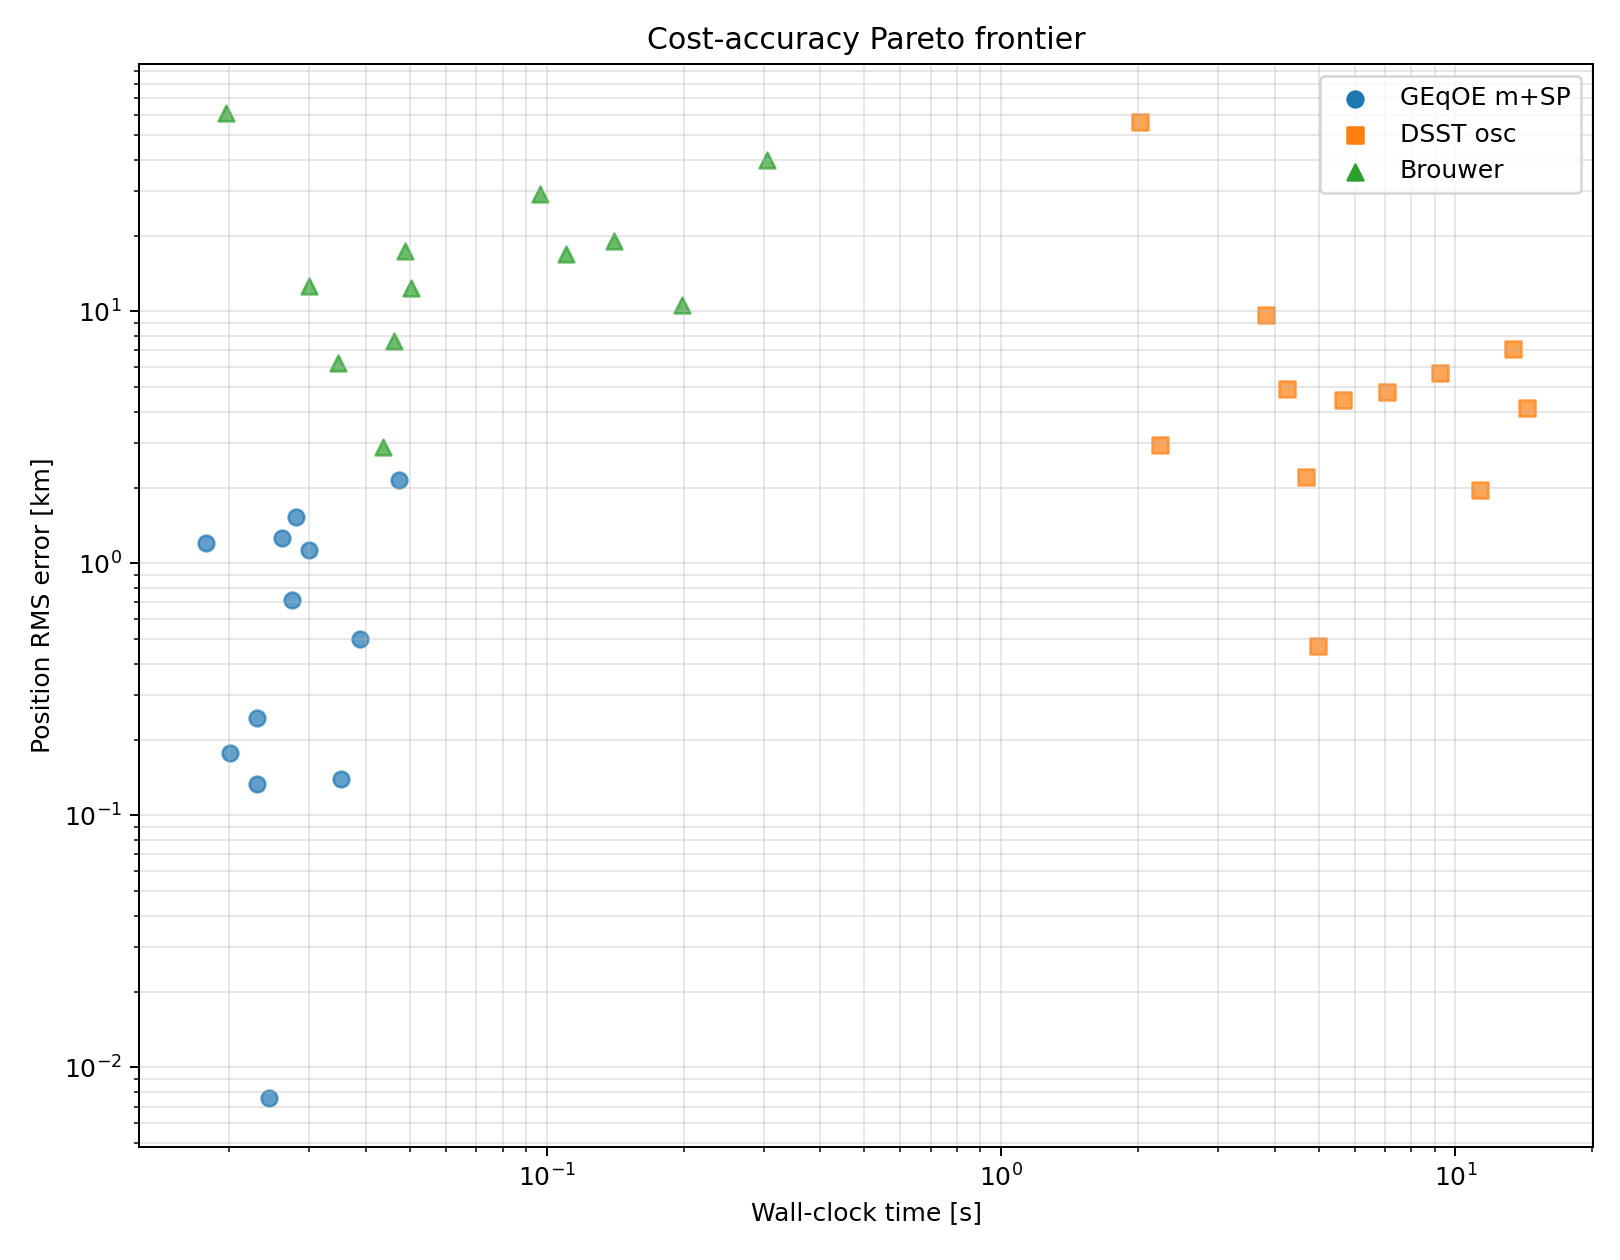
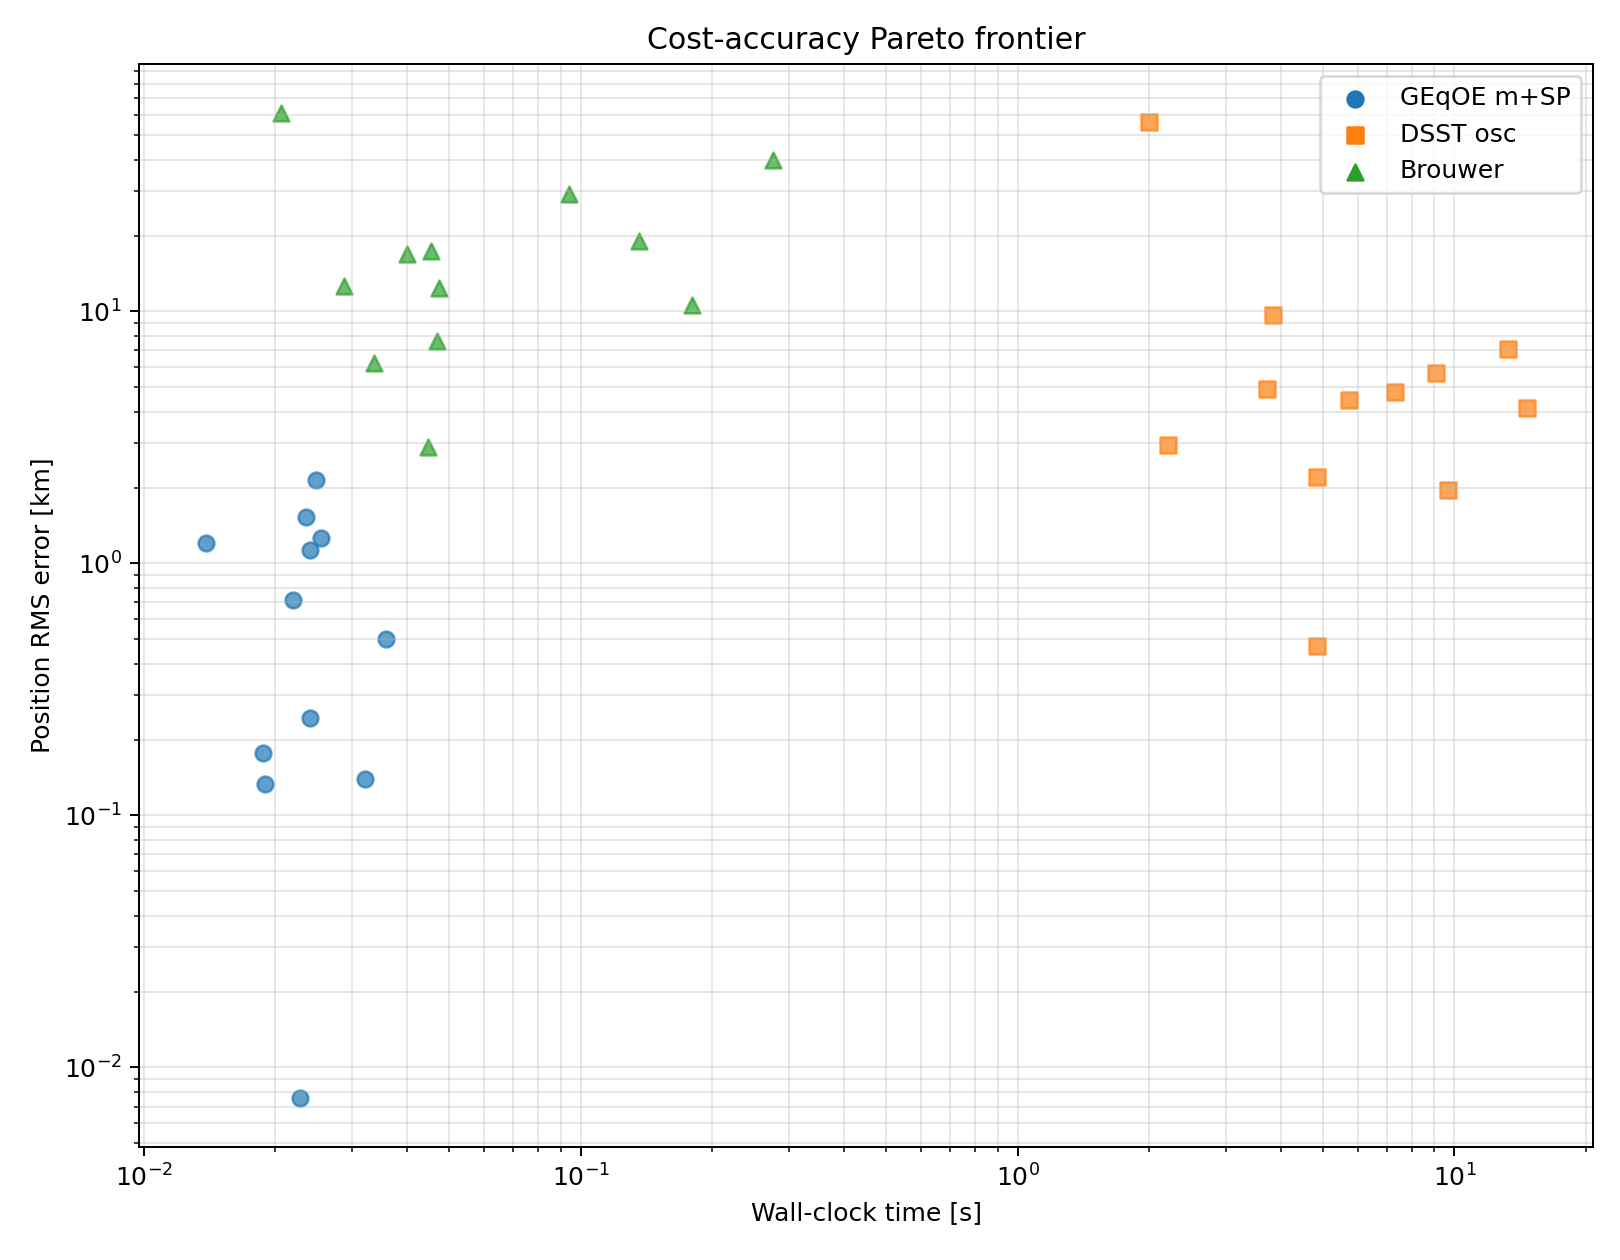
feat: add equinoctial SP column to validation tables and figures
Add GEqOE-eqnoc method to extended_validation.py alongside the polar
route. The osculating table now shows both polar and equinoctial SP
columns for direct comparison.

Key results (equinoctial vs polar position RMS):
  LEO-circ (e=0.001): 0.58 vs 1.27 km (2.2x improvement)
  SSO (e=0.001):      0.70 vs 1.53 km (2.2x improvement)
  LEO-mod-e (e=0.05): 1.13 vs 1.13 km (equivalent)
  Molniya (e=0.74):   0.13 vs 0.13 km (no regression)

diff --git a/docs/geqoe_averaged/scripts/extended_validation.py b/docs/geqoe_averaged/scripts/extended_validation.py
@@ -59,6 +59,8 @@ from geqoe_mean.short_period import (
     mean_to_osculating_state,
     mean_to_osculating_state_batch,
     osculating_to_mean_state,
+    osculating_to_mean_state_equinoctial,
+    mean_to_osculating_state_equinoctial_batch,
 )
 from geqoe_mean.batch_conversions import geqoe2cart_zonal_batch
 from geqoe_mean.validation import (
@@ -532,6 +534,24 @@ def run_single_case(case):
         result["geqoe_meansp"] = None
         result["geqoe_mean_only"] = None
 
+    # --- 3c. GEqOE equinoctial mean + SP ---
+    try:
+        _ensure_symbolic_cache(J_COEFFS)
+        state0_osc_eq = cart2geqoe(r0, v0, MU, pert)
+        mean0_eq = osculating_to_mean_state_equinoctial(state0_osc_eq, J_COEFFS, re_val=RE, mu_val=MU)
+        mean_hist_eq = rk4_integrate_mean(mean0_eq, t_grid, J_COEFFS, substeps=case.rk4_substeps)
+        osc_rec_eq = mean_to_osculating_state_equinoctial_batch(mean_hist_eq, J_COEFFS, re_val=RE, mu_val=MU)
+        eqnoc_cart, _ = geqoe2cart_zonal_batch(osc_rec_eq, MU, pert)
+        err_eqnoc = compute_errors(truth_cart, eqnoc_cart, "GEqOE-eqnoc+SP")
+        result["geqoe_eqnoc"] = err_eqnoc
+        print(f"  GEqOE-eqnoc:   "
+              f"pos RMS = {err_eqnoc['pos_rms_km']:.4f} km  "
+              f"rad RMS = {err_eqnoc['rad_rms_km']:.4f} km")
+    except Exception as exc:
+        print(f"  GEqOE-eqnoc FAILED: {exc}")
+        traceback.print_exc()
+        result["geqoe_eqnoc"] = None
+
     # Build Orekit orbit once for Brouwer + DSST
     orekit_orbit, epoch_ok, frame_ok = _build_orekit_orbit(case)
 
@@ -641,29 +661,31 @@ def run_single_case(case):
 # --------------------------------------------------------------------------- #
 
 def write_osculating_table(results, out_path):
-    """Table A: osculating comparison — GEqOE mean+SP vs DSST-osc vs Brouwer."""
+    """Table A: osculating comparison — GEqOE polar vs eqnoc vs DSST vs Brouwer."""
     lines = []
     lines.append(r"\begin{table}[ht]")
     lines.append(r"\centering")
     lines.append(r"\caption{Osculating position RMS error [km] against Cowell truth")
     lines.append(r"($J_2$--$J_5$ zonal, identical constants for all methods).")
-    lines.append(r"``pos'': 3D position; ``rad'': radial.}")
+    lines.append(r"``polar'': polar SP map; ``eqnoc'': equinoctial (singularity-free) SP map.}")
     lines.append(r"\label{tab:dsst_osculating}")
     lines.append(r"\small")
-    lines.append(r"\begin{tabular}{@{}lrrrr" + "rr" * 3 + r"@{}}")
+    lines.append(r"\begin{tabular}{@{}lrrrr" + "rr" * 4 + r"@{}}")
     lines.append(r"\toprule")
     lines.append(r"Case & $a$ & $e$ & $i$ & Days"
-                 r" & \multicolumn{2}{c}{GEqOE mean+SP}"
+                 r" & \multicolumn{2}{c}{GEqOE polar}"
+                 r" & \multicolumn{2}{c}{GEqOE eqnoc}"
                  r" & \multicolumn{2}{c}{DSST osc.}"
                  r" & \multicolumn{2}{c}{Brouwer--Lyddane} \\")
     lines.append(r" & [km] & & [deg] & "
-                 r" & pos & rad & pos & rad & pos & rad \\")
+                 r" & pos & rad & pos & rad & pos & rad & pos & rad \\")
     lines.append(r"\midrule")
 
     for r in results:
         if not r.get("cowell_ok"):
             continue
         ms = r.get("geqoe_meansp")
+        eq = r.get("geqoe_eqnoc")
         do = r.get("dsst_osc")
         br = r.get("brouwer")
         case = next(c for c in CASES if c.name == r["case_name"])
@@ -680,6 +702,7 @@ def write_osculating_table(results, out_path):
             f"{case.label} & {r['a_km']:.0f} & {r['e']:.3f} & "
             f"{r['inc_deg']:.1f} & {r['t_final_days']:.1f} & "
             f"{_fmt(ms, 'pos_rms_km')} & {_fmt(ms, 'rad_rms_km')} & "
+            f"{_fmt(eq, 'pos_rms_km')} & {_fmt(eq, 'rad_rms_km')} & "
             f"{_fmt(do, 'pos_rms_km')} & {_fmt(do, 'rad_rms_km')} & "
             f"{_fmt(br, 'pos_rms_km')} & {_fmt(br, 'rad_rms_km')} \\\\"
         )
@@ -1097,21 +1120,23 @@ def main():
     print("\n" + "=" * 70)
     print("  SUMMARY")
     print("=" * 70)
-    fmt = "{:<14s} {:>6s} {:>6s} {:>10s} {:>10s} {:>10s}"
-    print(fmt.format("Case", "e", "i", "GEqOE RMS", "DSST RMS", "Brouwer"))
-    print("-" * 62)
+    fmt = "{:<14s} {:>6s} {:>6s} {:>10s} {:>10s} {:>10s} {:>10s}"
+    print(fmt.format("Case", "e", "i", "GEqOE RMS", "Eqnoc RMS", "DSST RMS", "Brouwer"))
+    print("-" * 75)
     for r in all_results:
         ms = r.get("geqoe_meansp")
+        eq = r.get("geqoe_eqnoc")
         do = r.get("dsst_osc")
         br = r.get("brouwer")
         ms_s = f"{ms['pos_rms_km']:.4f}" if ms else "FAIL"
+        eq_s = f"{eq['pos_rms_km']:.4f}" if eq else "FAIL"
         do_s = f"{do['pos_rms_km']:.4f}" if do else "FAIL"
         br_s = f"{br['pos_rms_km']:.4f}" if br else "FAIL"
         print(fmt.format(
             r["case_name"],
             f"{r.get('e', '?')}",
             f"{r.get('inc_deg', '?')}",
-            ms_s, do_s, br_s))
+            ms_s, eq_s, do_s, br_s))
 
     # Write LaTeX tables
     table_dir = DOC_DIR / "main_docs"

diff --git a/docs/geqoe_averaged/main_docs/dsst_osculating_table.tex b/docs/geqoe_averaged/main_docs/dsst_osculating_table.tex
@@ -2,26 +2,26 @@
 \centering
 \caption{Osculating position RMS error [km] against Cowell truth
 ($J_2$--$J_5$ zonal, identical constants for all methods).
-``pos'': 3D position; ``rad'': radial.}
+``polar'': polar SP map; ``eqnoc'': equinoctial (singularity-free) SP map.}
 \label{tab:dsst_osculating}
 \small
-\begin{tabular}{@{}lrrrrrrrrrr@{}}
+\begin{tabular}{@{}lrrrrrrrrrrrr@{}}
 \toprule
-Case & $a$ & $e$ & $i$ & Days & \multicolumn{2}{c}{GEqOE mean+SP} & \multicolumn{2}{c}{DSST osc.} & \multicolumn{2}{c}{Brouwer--Lyddane} \\
- & [km] & & [deg] &  & pos & rad & pos & rad & pos & rad \\
+Case & $a$ & $e$ & $i$ & Days & \multicolumn{2}{c}{GEqOE polar} & \multicolumn{2}{c}{GEqOE eqnoc} & \multicolumn{2}{c}{DSST osc.} & \multicolumn{2}{c}{Brouwer--Lyddane} \\
+ & [km] & & [deg] &  & pos & rad & pos & rad & pos & rad & pos & rad \\
 \midrule
-LEO circ. & 6878 & 0.001 & 51.6 & 3.3 & 1.267 & 0.746 & 2.207 & 1.030 & 10.572 & 7.716 \\
-LEO mod-$e$ & 7000 & 0.050 & 40.0 & 3.4 & 1.130 & 0.026 & 4.432 & 3.640 & 7.653 & 4.738 \\
-SSO & 7078 & 0.001 & 97.8 & 3.4 & 1.529 & 0.607 & 4.772 & 4.544 & 18.998 & 13.606 \\
-Near-equat. & 7200 & 0.010 & 5.0 & 3.5 & 2.134 & 0.037 & 9.659 & 9.106 & 16.956 & 8.423 \\
-Crit.\ low-$e$ & 7500 & 0.010 & 63.4 & 7.5 & 0.502 & 0.027 & 7.115 & 1.943 & 39.967 & 15.448 \\
-Crit.\ mod-$e$ & 12000 & 0.150 & 63.4 & 15.2 & 0.140 & 0.0033 & 4.135 & 1.307 & 29.166 & 12.312 \\
-Molniya & 26554 & 0.740 & 63.4 & 15.0 & 0.133 & 0.0036 & 5.705 & 1.663 & 12.640 & 9.183 \\
-GTO & 24500 & 0.730 & 7.0 & 8.8 & 1.207 & 0.011 & 56.201 & 30.313 & 61.352 & 34.327 \\
-MEO/GPS & 26560 & 0.010 & 55.0 & 24.9 & 0.0076 & 0.0004 & 0.469 & 0.197 & 2.884 & 1.704 \\
-Polar & 7200 & 0.005 & 90.0 & 3.5 & 0.718 & 0.056 & 4.936 & 4.719 & 17.375 & 12.030 \\
-HEO mod-$e$ & 15000 & 0.400 & 45.0 & 6.3 & 0.177 & 0.023 & 2.953 & 1.468 & 6.236 & 3.630 \\
-Retrograde & 7500 & 0.010 & 120.0 & 3.7 & 0.244 & 0.020 & 1.954 & 1.350 & 12.404 & 7.218 \\
+LEO circ. & 6878 & 0.001 & 51.6 & 3.3 & 1.267 & 0.746 & 0.579 & 0.0029 & 2.207 & 1.030 & 10.572 & 7.716 \\
+LEO mod-$e$ & 7000 & 0.050 & 40.0 & 3.4 & 1.130 & 0.026 & 1.131 & 0.028 & 4.432 & 3.640 & 7.653 & 4.738 \\
+SSO & 7078 & 0.001 & 97.8 & 3.4 & 1.529 & 0.607 & 0.695 & 0.0030 & 4.772 & 4.544 & 18.998 & 13.606 \\
+Near-equat. & 7200 & 0.010 & 5.0 & 3.5 & 2.134 & 0.037 & 2.123 & 0.0030 & 9.659 & 9.106 & 16.956 & 8.423 \\
+Crit.\ low-$e$ & 7500 & 0.010 & 63.4 & 7.5 & 0.502 & 0.027 & 0.501 & 0.0015 & 7.115 & 1.943 & 39.967 & 15.448 \\
+Crit.\ mod-$e$ & 12000 & 0.150 & 63.4 & 15.2 & 0.140 & 0.0033 & 0.140 & 0.0033 & 4.135 & 1.307 & 29.166 & 12.312 \\
+Molniya & 26554 & 0.740 & 63.4 & 15.0 & 0.133 & 0.0036 & 0.133 & 0.0040 & 5.705 & 1.663 & 12.640 & 9.183 \\
+GTO & 24500 & 0.730 & 7.0 & 8.8 & 1.207 & 0.011 & 1.207 & 0.012 & 56.201 & 30.313 & 61.352 & 34.327 \\
+MEO/GPS & 26560 & 0.010 & 55.0 & 24.9 & 0.0076 & 0.0004 & 0.0076 & 0.0001 & 0.469 & 0.197 & 2.884 & 1.704 \\
+Polar & 7200 & 0.005 & 90.0 & 3.5 & 0.718 & 0.056 & 0.708 & 0.0034 & 4.936 & 4.719 & 17.375 & 12.030 \\
+HEO mod-$e$ & 15000 & 0.400 & 45.0 & 6.3 & 0.177 & 0.023 & 0.177 & 0.023 & 2.953 & 1.468 & 6.236 & 3.630 \\
+Retrograde & 7500 & 0.010 & 120.0 & 3.7 & 0.244 & 0.020 & 0.242 & 0.0022 & 1.954 & 1.350 & 12.404 & 7.218 \\
 \bottomrule
 \end{tabular}
 \end{table}

diff --git a/docs/geqoe_averaged/main_docs/dsst_timing_table.tex b/docs/geqoe_averaged/main_docs/dsst_timing_table.tex
@@ -7,18 +7,18 @@
 \toprule
 Case & Cowell & GEqOE m+SP & GEqOE mean & DSST osc & Brouwer \\
 \midrule
-LEO circ. & 0.28 & 0.03 & 0.01 & 4.70 & 0.20 \\
-LEO mod-$e$ & 0.03 & 0.03 & 0.01 & 5.65 & 0.05 \\
-SSO & 0.03 & 0.03 & 0.01 & 7.06 & 0.14 \\
-Near-equat. & 0.07 & 0.05 & 0.03 & 3.83 & 0.11 \\
-Crit.\ low-$e$ & 0.05 & 0.04 & 0.02 & 13.41 & 0.31 \\
-Crit.\ mod-$e$ & 0.05 & 0.04 & 0.02 & 14.37 & 0.10 \\
-Molniya & 0.02 & 0.02 & 0.01 & 9.24 & 0.03 \\
-GTO & 0.02 & 0.02 & 0.01 & 2.02 & 0.02 \\
-MEO/GPS & 0.03 & 0.02 & 0.01 & 4.98 & 0.04 \\
-Polar & 0.03 & 0.03 & 0.01 & 4.26 & 0.05 \\
-HEO mod-$e$ & 0.02 & 0.02 & 0.01 & 2.24 & 0.03 \\
-Retrograde & 0.03 & 0.02 & 0.01 & 11.33 & 0.05 \\
+LEO circ. & 0.28 & 0.03 & 0.01 & 4.84 & 0.18 \\
+LEO mod-$e$ & 0.03 & 0.02 & 0.01 & 5.73 & 0.05 \\
+SSO & 0.03 & 0.02 & 0.01 & 7.32 & 0.14 \\
+Near-equat. & 0.07 & 0.02 & 0.01 & 3.84 & 0.04 \\
+Crit.\ low-$e$ & 0.04 & 0.04 & 0.02 & 13.23 & 0.28 \\
+Crit.\ mod-$e$ & 0.04 & 0.03 & 0.02 & 14.65 & 0.09 \\
+Molniya & 0.02 & 0.02 & 0.01 & 9.07 & 0.03 \\
+GTO & 0.02 & 0.01 & 0.01 & 2.00 & 0.02 \\
+MEO/GPS & 0.03 & 0.02 & 0.01 & 4.85 & 0.04 \\
+Polar & 0.03 & 0.02 & 0.01 & 3.72 & 0.05 \\
+HEO mod-$e$ & 0.02 & 0.02 & 0.01 & 2.21 & 0.03 \\
+Retrograde & 0.03 & 0.02 & 0.01 & 9.66 & 0.05 \\
 \bottomrule
 \end{tabular}
 \end{table}
